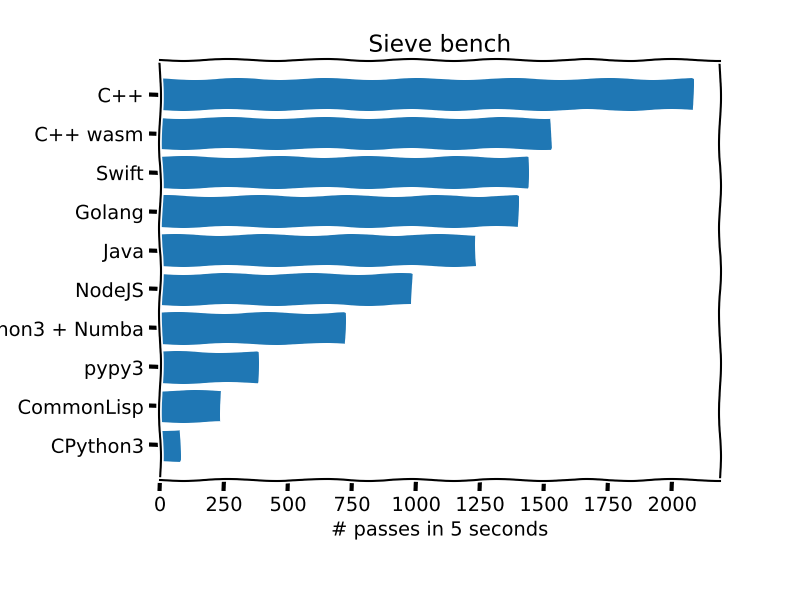
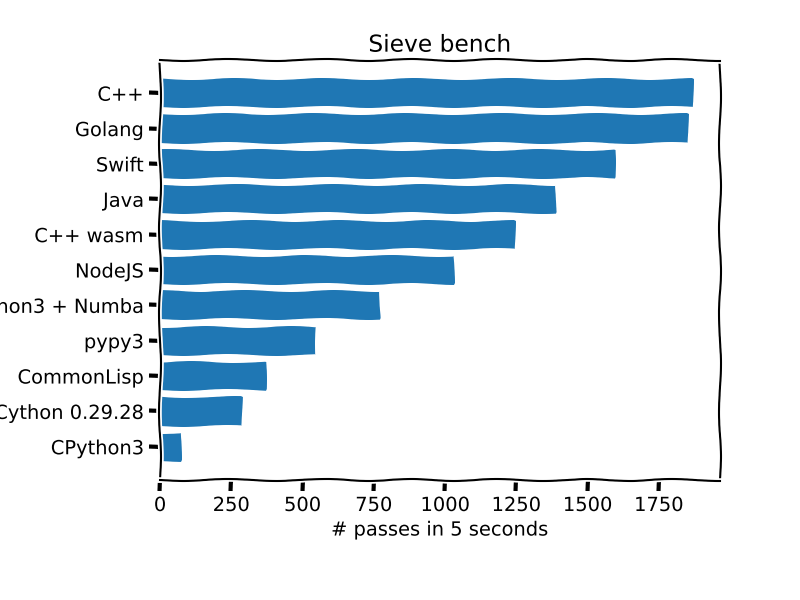
deploy: 340ab44bd38d11d5fbd29c875721e4f55cd8b733

Changed region(s): [[0.0, 0.15, 0.875, 0.78], [0.3438, 0.81, 0.875, 0.87], [0.25, 0.81, 0.3125, 0.87]]

diff --git a/results/index.html b/results/index.html
@@ -279,98 +279,102 @@ Description:    Ubuntu 20.04.3 LTS
 Release:    20.04
 Codename:   focal
 
-Linux fv-az278-853 5.11.0-1028-azure #31~20.04.2-Ubuntu SMP Tue Jan 18 08:46:15 UTC 2022 x86_64 x86_64 x86_64 GNU/Linux
+Linux fv-az132-844 5.11.0-1028-azure #31~20.04.2-Ubuntu SMP Tue Jan 18 08:46:15 UTC 2022 x86_64 x86_64 x86_64 GNU/Linux
 
 
-2083
+1871
 C++
 g++ (Ubuntu 9.3.0-17ubuntu1~20.04) 9.3.0
 Copyright (C) 2019 Free Software Foundation, Inc.
 This is free software; see the source for copying conditions.  There is NO
 warranty; not even for MERCHANTABILITY or FITNESS FOR A PARTICULAR PURPOSE.
 
-1526
+1247
 C++ wasm
-emcc (Emscripten gcc/clang-like replacement + linker emulating GNU ld) 3.1.5 (d33328b22db1aa62a51c50731e9645951a2038bc)
+emcc (Emscripten gcc/clang-like replacement + linker emulating GNU ld) 3.1.6 (c102a423a06d9833a8481d6859888bebf22842b0)
 Copyright (C) 2014 the Emscripten authors (see AUTHORS.txt)
 This is free and open source software under the MIT license.
 There is NO warranty; not even for MERCHANTABILITY or FITNESS FOR A PARTICULAR PURPOSE.
 
-2083
-C++
-g++ (Ubuntu 9.3.0-17ubuntu1~20.04) 9.3.0
-Copyright (C) 2019 Free Software Foundation, Inc.
-This is free software; see the source for copying conditions.  There is NO
-warranty; not even for MERCHANTABILITY or FITNESS FOR A PARTICULAR PURPOSE.
+1853
+Golang
+go version go1.13.8 linux/amd64
 
-1526
-C++ wasm
-emcc (Emscripten gcc/clang-like replacement + linker emulating GNU ld) 3.1.5 (d33328b22db1aa62a51c50731e9645951a2038bc)
-Copyright (C) 2014 the Emscripten authors (see AUTHORS.txt)
-This is free and open source software under the MIT license.
-There is NO warranty; not even for MERCHANTABILITY or FITNESS FOR A PARTICULAR PURPOSE.
-
-1436
+1596
 Swift
 Swift version 5.5.3 (swift-5.5.3-RELEASE)
 Target: x86_64-unknown-linux-gnu
 
-1397
-Golang
-go version go1.13.8 linux/amd64
-
-1235
+1389
 Java
 openjdk 11.0.14.1 2022-02-08
 OpenJDK Runtime Environment Temurin-11.0.14.1+1 (build 11.0.14.1+1)
 OpenJDK 64-Bit Server VM Temurin-11.0.14.1+1 (build 11.0.14.1+1, mixed mode)
 
-986
+1871
+C++
+g++ (Ubuntu 9.3.0-17ubuntu1~20.04) 9.3.0
+Copyright (C) 2019 Free Software Foundation, Inc.
+This is free software; see the source for copying conditions.  There is NO
+warranty; not even for MERCHANTABILITY or FITNESS FOR A PARTICULAR PURPOSE.
+
+1247
+C++ wasm
+emcc (Emscripten gcc/clang-like replacement + linker emulating GNU ld) 3.1.6 (c102a423a06d9833a8481d6859888bebf22842b0)
+Copyright (C) 2014 the Emscripten authors (see AUTHORS.txt)
+This is free and open source software under the MIT license.
+There is NO warranty; not even for MERCHANTABILITY or FITNESS FOR A PARTICULAR PURPOSE.
+
+1031
 NodeJS
 v16.14.0
 
-77
+73
 CPython3
 Python 3.8.10
 
-724
+773
 CPython3 + Numba
 Python 3.8.10
 Numba 0.55.1
 
-384
+548
 pypy3
 Python 3.6.9 (7.3.1+dfsg-4, Apr 22 2020, 05:15:29)
 [PyPy 7.3.1 with GCC 9.3.0]
 
-77
+73
 CPython3
 Python 3.8.10
 
-724
+773
 CPython3 + Numba
 Python 3.8.10
 Numba 0.55.1
 
-384
+548
 pypy3
 Python 3.6.9 (7.3.1+dfsg-4, Apr 22 2020, 05:15:29)
 [PyPy 7.3.1 with GCC 9.3.0]
 
-239
+373
 CommonLisp
 SBCL 2.0.1.debian
 
-77
+288
+Cython 0.29.28
+Python 3.8.10
+
+73
 CPython3
 Python 3.8.10
 
-724
+773
 CPython3 + Numba
 Python 3.8.10
 Numba 0.55.1
 
-384
+548
 pypy3
 Python 3.6.9 (7.3.1+dfsg-4, Apr 22 2020, 05:15:29)
 [PyPy 7.3.1 with GCC 9.3.0]
